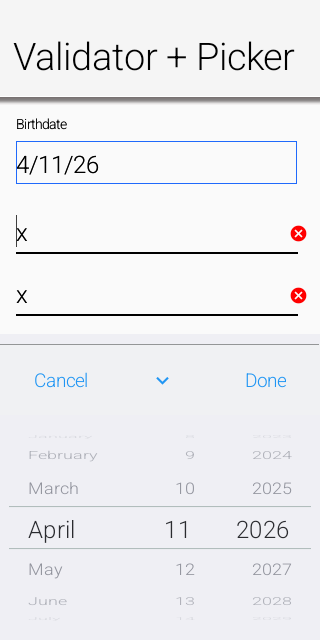
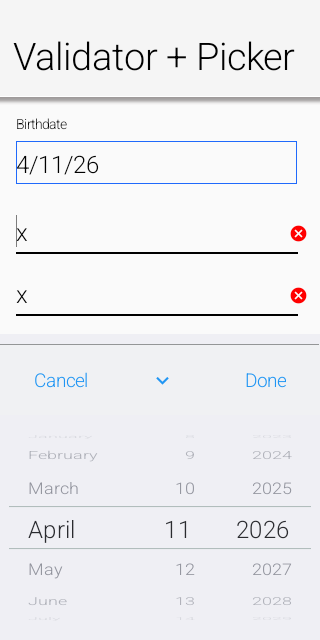
Use fixed date in ValidatorLightweightPicker screenshot test to stabilize output (#4738)
* Use java.time for fixed picker screenshot date

* Harden screenshot date and iOS PNG chunking

* Fix picker date setup without forbidden Date constructor

* Harden screenshot chunking and fix picker button dates

* Fix iOS screenshot chunk format regression

* Revert screenshot helper regressions

* Updated Android screenshot

---------

diff --git a/scripts/hellocodenameone/common/src/main/java/com/codenameone/examples/hellocodenameone/tests/LightweightPickerButtonsScreenshotTest.java b/scripts/hellocodenameone/common/src/main/java/com/codenameone/examples/hellocodenameone/tests/LightweightPickerButtonsScreenshotTest.java
@@ -6,31 +6,34 @@ import com.codename1.ui.layouts.BoxLayout;
 import com.codename1.ui.spinner.Picker;
 import com.codename1.ui.util.UITimer;
 
-import java.util.Calendar;
+import java.time.LocalDate;
+import java.time.ZoneId;
 import java.util.Date;
 
 public class LightweightPickerButtonsScreenshotTest extends BaseTest {
     private Picker picker;
+    private Date fixedDate;
+    private Date fixedDatePlus7;
 
     @Override
     public boolean runTest() {
         Form form = createForm("Picker Quick Buttons", BoxLayout.y(), "LightweightPickerButtons");
+        fixedDate = toDate(LocalDate.of(2026, 4, 11));
+        fixedDatePlus7 = toDate(LocalDate.of(2026, 4, 18));
         picker = new Picker();
         picker.setType(Display.PICKER_TYPE_DATE);
         picker.setUseLightweightPopup(true);
-        picker.setDate(new Date());
+        picker.setDate(fixedDate);
         picker.addLightweightPopupButton("Today", new Runnable() {
             @Override
             public void run() {
-                picker.setDate(new Date());
+                picker.setDate(fixedDate);
             }
         });
         picker.addLightweightPopupButton("+7 Days", new Runnable() {
             @Override
             public void run() {
-                Calendar cal = Calendar.getInstance();
-                cal.add(Calendar.DAY_OF_MONTH, 7);
-                picker.setDate(cal.getTime());
+                picker.setDate(fixedDatePlus7);
             }
         }, Picker.LightweightPopupButtonPlacement.BELOW_SPINNER);
         form.add(picker);
@@ -40,7 +43,12 @@ public class LightweightPickerButtonsScreenshotTest extends BaseTest {
 
     @Override
     protected void registerReadyCallback(Form parent, Runnable run) {
+        picker.setDate(fixedDate);
         picker.startEditingAsync();
         UITimer.timer(1000, false, parent, run);
+    }
+
+    private static Date toDate(LocalDate date) {
+        return new Date(date.atStartOfDay(ZoneId.systemDefault()).toInstant().toEpochMilli());
     }
 }

diff --git a/scripts/hellocodenameone/common/src/main/java/com/codenameone/examples/hellocodenameone/tests/ValidatorLightweightPickerScreenshotTest.java b/scripts/hellocodenameone/common/src/main/java/com/codenameone/examples/hellocodenameone/tests/ValidatorLightweightPickerScreenshotTest.java
@@ -9,6 +9,8 @@ import com.codename1.ui.util.UITimer;
 import com.codename1.ui.validation.LengthConstraint;
 import com.codename1.ui.validation.Validator;
 
+import java.time.LocalDate;
+import java.time.ZoneId;
 import java.util.ArrayList;
 import java.util.Date;
 import java.util.List;
@@ -17,6 +19,7 @@ public class ValidatorLightweightPickerScreenshotTest extends BaseTest {
     private Picker picker;
     private final List<TextField> fields = new ArrayList<>();
     private boolean originalValidateOnEveryKey;
+    private Date fixedBirthDate;
 
     @Override
     public boolean runTest() {
@@ -24,7 +27,13 @@ public class ValidatorLightweightPickerScreenshotTest extends BaseTest {
         originalValidateOnEveryKey = Validator.isValidateOnEveryKey();
         Validator.setValidateOnEveryKey(true);
 
-        PickerComponent birthDate = PickerComponent.createDate(new Date()).label("Birthdate");
+        fixedBirthDate = new Date(
+                LocalDate.of(2026, 4, 11)
+                        .atStartOfDay(ZoneId.systemDefault())
+                        .toInstant()
+                        .toEpochMilli()
+        );
+        PickerComponent birthDate = PickerComponent.createDate(fixedBirthDate).label("Birthdate");
         picker = birthDate.getPicker();
         picker.setUseLightweightPopup(true);
         form.add(birthDate);
@@ -50,6 +59,7 @@ public class ValidatorLightweightPickerScreenshotTest extends BaseTest {
         for (TextField field : fields) {
             field.setText("x");
         }
+        picker.setDate(fixedBirthDate);
         picker.startEditingAsync();
         UITimer.timer(1000, false, parent, run);
     }
